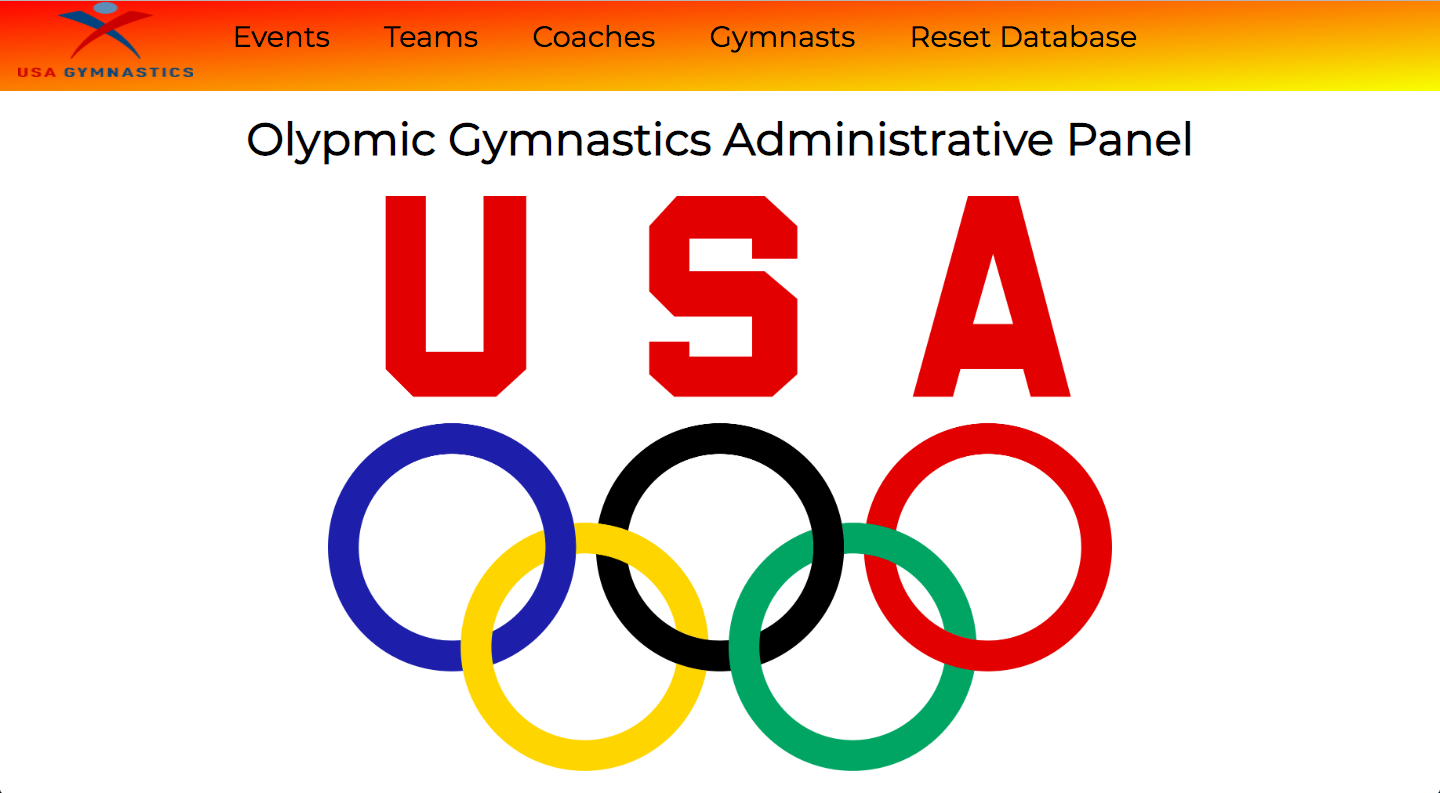
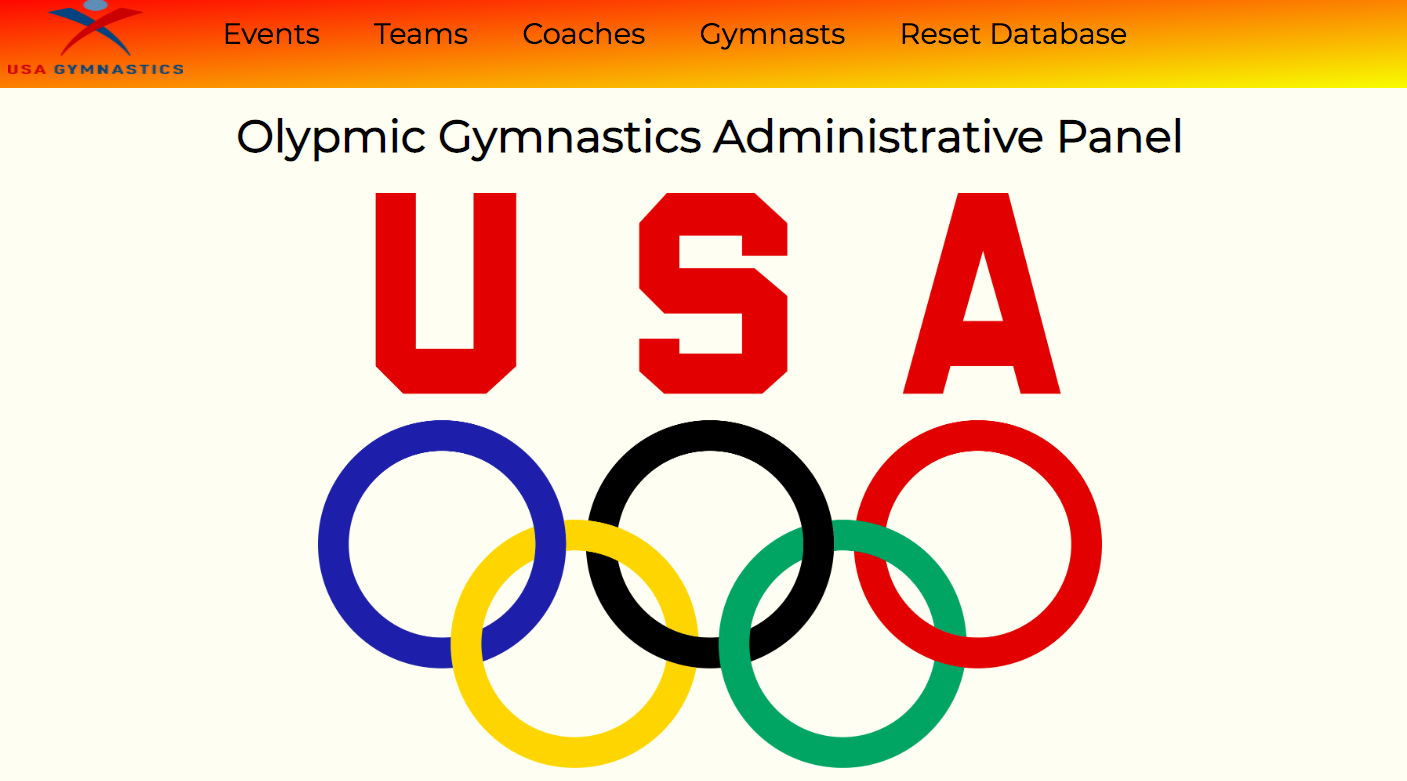
Major styling changes. Change all projects to be shown via flexbox

diff --git a/index.html b/index.html
@@ -35,14 +35,14 @@
         </div>
 
         <div id="contact">
-            <a href="https://www.linkedin.com/in/zachary-rondos/" target="_blank"><img src="linkedin.png"></a>
-            <a href="resume.pdf" target="_blank"><img src="resumee.png"></a>
-            <a href="https://github.com/Zrondos" target="_blank"><img src="github.png"></a>
+            <a href="https://www.linkedin.com/in/zachary-rondos/" target="_blank" title="LinkedIn"><img src="linkedin.png"></a>
+            <a href="resume.pdf" target="_blank" title="Resume"><img src="resumee.png"></a>
+            <a href="https://github.com/Zrondos" target="_blank" title="Github"><img src="github.png"></a>
             
         </div>
 
         <div id="tag_line">
-            <h3>Full Stack Web Developer</h3>
+            <h3>Software Engineer</h3>
         </div>
 
         <div id="about">
@@ -73,35 +73,40 @@
 
     <div id="portfolio">
         <h2>Projects</h2>
-
+        <h3>Pokemon Team Analyzer</h3>
         <div id="pokeanalyzer">
-            <h3>Pokemon Team Analyzer</h3>
-            <p>Enter your Pokemon team to view stat averages as well as type resistance, weakness and immunity using interactive charts.<br>
-                Search for Pokemon by number or generate a random team then click "Analyze"</p>
-            <p><a href="https://www.youtube.com/watch?v=Pz5_bVG5C9g" target="_blank">Demo</a></p>
-            <a href="https://pokemonanalyzer.herokuapp.com/" target="_blank">
-                <img src="pokemon.gif" id="pokeanalyzer_image">
-            </a>
-            <div id="pokeanalyzer_info">
-                <div class="features">
-                    <ul>    
-                        <li>Built on Ruby on Rails</li>
-                        <li>Promise based AJAX calls from APIs</li>
-                        <li>Utilization of CSS Grid for full mobile responsiveness</li>
-                        <li>Displaying data via Chart.JS to create interactive graphs regarding teams’ strengths and weaknesses</li>
-                    </ul>
+            <div class="pokemon_image_container">
+                <a href="https://pokemonanalyzer.herokuapp.com/" target="_blank">
+                    <img src="pokemon.gif" id="pokeanalyzer_image">
+                </a>
+            </div>
+        
+                
+            <div id="pokemonanalyzer_info_container">
+                <p>Enter your Pokemon team to view stat averages as well as type resistance, weakness and immunity using interactive charts.<br>
+                    Search for Pokemon by number or generate a random team then click "Analyze"</p>
+                
+                <div id="pokeanalyzer_info">
+                    <div class="features">
+                        <ul>    
+                            <li>Built on Ruby on Rails</li>
+                            <li>Promise based AJAX calls from APIs</li>
+                            <li>Utilization of CSS Grid for full mobile responsiveness</li>
+                            <li>Displaying data via Chart.JS to create interactive graphs regarding teams’ strengths and weaknesses</li>
+                        </ul>
+                    </div>
+                    <p><a href="https://www.youtube.com/watch?v=Pz5_bVG5C9g" target="_blank">Demo</a></p>
+                    <p><a href="https://github.com/Zrondos/PokeAnalyzer" target="_blank">Github</a></p>
+                    
                 </div>
-                 <span><a href="https://github.com/Zrondos/PokeAnalyzer" target="_blank">Github</a></span>
             </div>
         </div>
 
+        <h3>Bill Splitter</h3>
         <div id="bill_splitter">
-            <h3>Bill Splitter</h3>
-            <p>Take a photo of your bill, have it translated to text, add friends to items they ordered, get custom bills for each friend</p>
-            <!-- <p><a href="" target="_blank">Demo</a></p> -->
-            <a href="https://billsplitting1.herokuapp.com/" target="_blank">
-                <img src="bill_splitter.png" id="bill_splitter_image">
-            </a>
+            <div id="bill_splitter_info_container">
+                <p>Take a photo of your bill, have it translated to text, add friends to items they ordered, get custom bills for each friend</p>
+            
             <div id="bill_splitter_info">
                 <div class="features">
                     <ul>        
@@ -110,31 +115,44 @@
                         <li>Displaying data via Chart.JS to create interactive graphs regarding teams’ strengths and weaknesses</li>
                     </ul> 
                 </div>
-                <span><a href="https://github.com/Zrondos/BillSplitterNew" target="_blank">Github</a></span>
+            </div>
+                <p><a href="https://github.com/Zrondos/BillSplitterNew" target="_blank">Github</a></p>
+            </div>
+            <div class="bill_splitter_image_container">
+                    <a href="https://billsplitting1.herokuapp.com/" target="_blank">
+                        <img src="bill_splitter.png" id="bill_splitter_image">
+                    </a>
             </div>
         </div>
 
+        <h3>Olympic Gymnastics Adminstrative Panel</h3>
         <div id="admin_panel">
-            <h3>Olympic Gymnastics Adminstrative Panel</h3>
-            <p>Manage the USA gymnastics team by creating gymnasts, coaches, teams and events</p>
-            <!-- <p><a href="https://www.youtube.com/watch?v=Pz5_bVG5C9g" target="_blank">Demo</a></p> -->
-            <a href="https://gymnastics-panel.herokuapp.com/" target="_blank">
-                <img src="admin_panel.png" id="admin_panel_image">
-            </a>
-            <div class="admin_panel_info">
-                <div class="features">
-                    <ul>    
-                        <li>Built on Ruby on Rails</li>
-                        <li>Full CRUD functionality for database management via PostgreSQL and ActiveRecord for one_to_one, one_to_many and many_to_many relationships</li>
-                        <li>AJAX used to update pages to reflect database changes without reloading page</li>
-                        <li>Custom Raketask used to reset database after use</li>
-                        <li>Heroku Scheduler used to reset database daily at midnight</li>
-                    </ul>
-                </div>
-                <span> <a href="https://github.com/Zrondos/Admin_Panel" target="_blank">Github</a></span>
+            <div class="admin_panel_image_container">
+                <a href="https://gymnastics-panel.herokuapp.com/" target="_blank">
+                    <img src="admin_panel.png" id="admin_panel_image">
+                </a>
             </div>
-        </div>         
+
+            <div id="admin_panel_info_container">
+                <p>Manage the USA gymnastics team by creating gymnasts, coaches, teams and events</p>
+                <!-- <p><a href="https://www.youtube.com/watch?v=Pz5_bVG5C9g" target="_blank">Demo</a></p> -->
+            
+                <div id="admin_panel_info">
+                    <div class="features">
+                        <ul>    
+                            <li>Built on Ruby on Rails</li>
+                            <li>Full CRUD functionality for database management via PostgreSQL and ActiveRecord for one_to_one, one_to_many and many_to_many relationships</li>
+                            <li>AJAX used to update pages to reflect database changes without reloading page</li>
+                            <li>Custom Raketask used to reset database after use</li>
+                            <li>Heroku Scheduler used to reset database daily at midnight</li>
+                        </ul>
+                    </div>
+                    <p> <a href="https://github.com/Zrondos/Admin_Panel" target="_blank">Github</a></p>
+                </div>
+            </div>  
+        </div>       
     </div>
 </body>
+<footer><br><br></footer>
 
 </html>

diff --git a/main.css b/main.css
@@ -10,6 +10,10 @@ body{
     animation: fadeIn 2s;
 }
 
+p, ul, li{
+    font-size:20px;
+}
+
 @keyframes fadeIn{
     from {
         opacity: 0;
@@ -24,6 +28,7 @@ body{
     z-index:-1;
     width: 2000px;
     bottom:2px;
+    opacity: 0.8;
 }
 
 #page1{
@@ -32,6 +37,7 @@ body{
 
 #heading{
     text-align:center;
+    text-shadow: 1px 1px white;
 }
 
 #profile_pic_container{
@@ -98,7 +104,7 @@ p{
 }
 
 #bill_splitter{
-    text-align: center;
+    display:flex;
 }
 
 #bill_splitter_image{
@@ -106,15 +112,31 @@ p{
     border-radius: 30px;
 }
 
+.bill_splitter_image_container{
+    width: 50%;
+    text-align: center;
+}
+
+#bill_splitter_info_container{
+    text-align: left;
+    margin-left: 15px;
+    width:50%;
+}
+
 
 #admin_panel{
-    text-align:center;
+    display:flex;
 }
 
 #admin_panel_image{
     margin: 0 auto;
-    width: 50%;
+    width: 100%;
     border-radius: 30px;
+}
+
+#admin_panel_info_container{
+    text-align: left;
+    margin-left: 15px;
 }
 
 #admin_panel_image:hover{
@@ -123,11 +145,12 @@ p{
 
 #pokeanalyzer{
     text-align:center;
+    display:flex;
 }
 
 #pokeanalyzer_image{    
     margin: 0 auto;
-    width: 50%;
+    width: 100%;
     border-radius: 30px;
 }
 
@@ -137,4 +160,14 @@ p{
 
 #bill_splitter_image:hover{
     border: 2px solid blue;
+}
+
+#pokeanalyzer_info{
+    text-align: left;
+    
+}
+
+#pokemonanalyzer_info_container{
+    text-align: left;
+    margin-left: 15px;
 }
